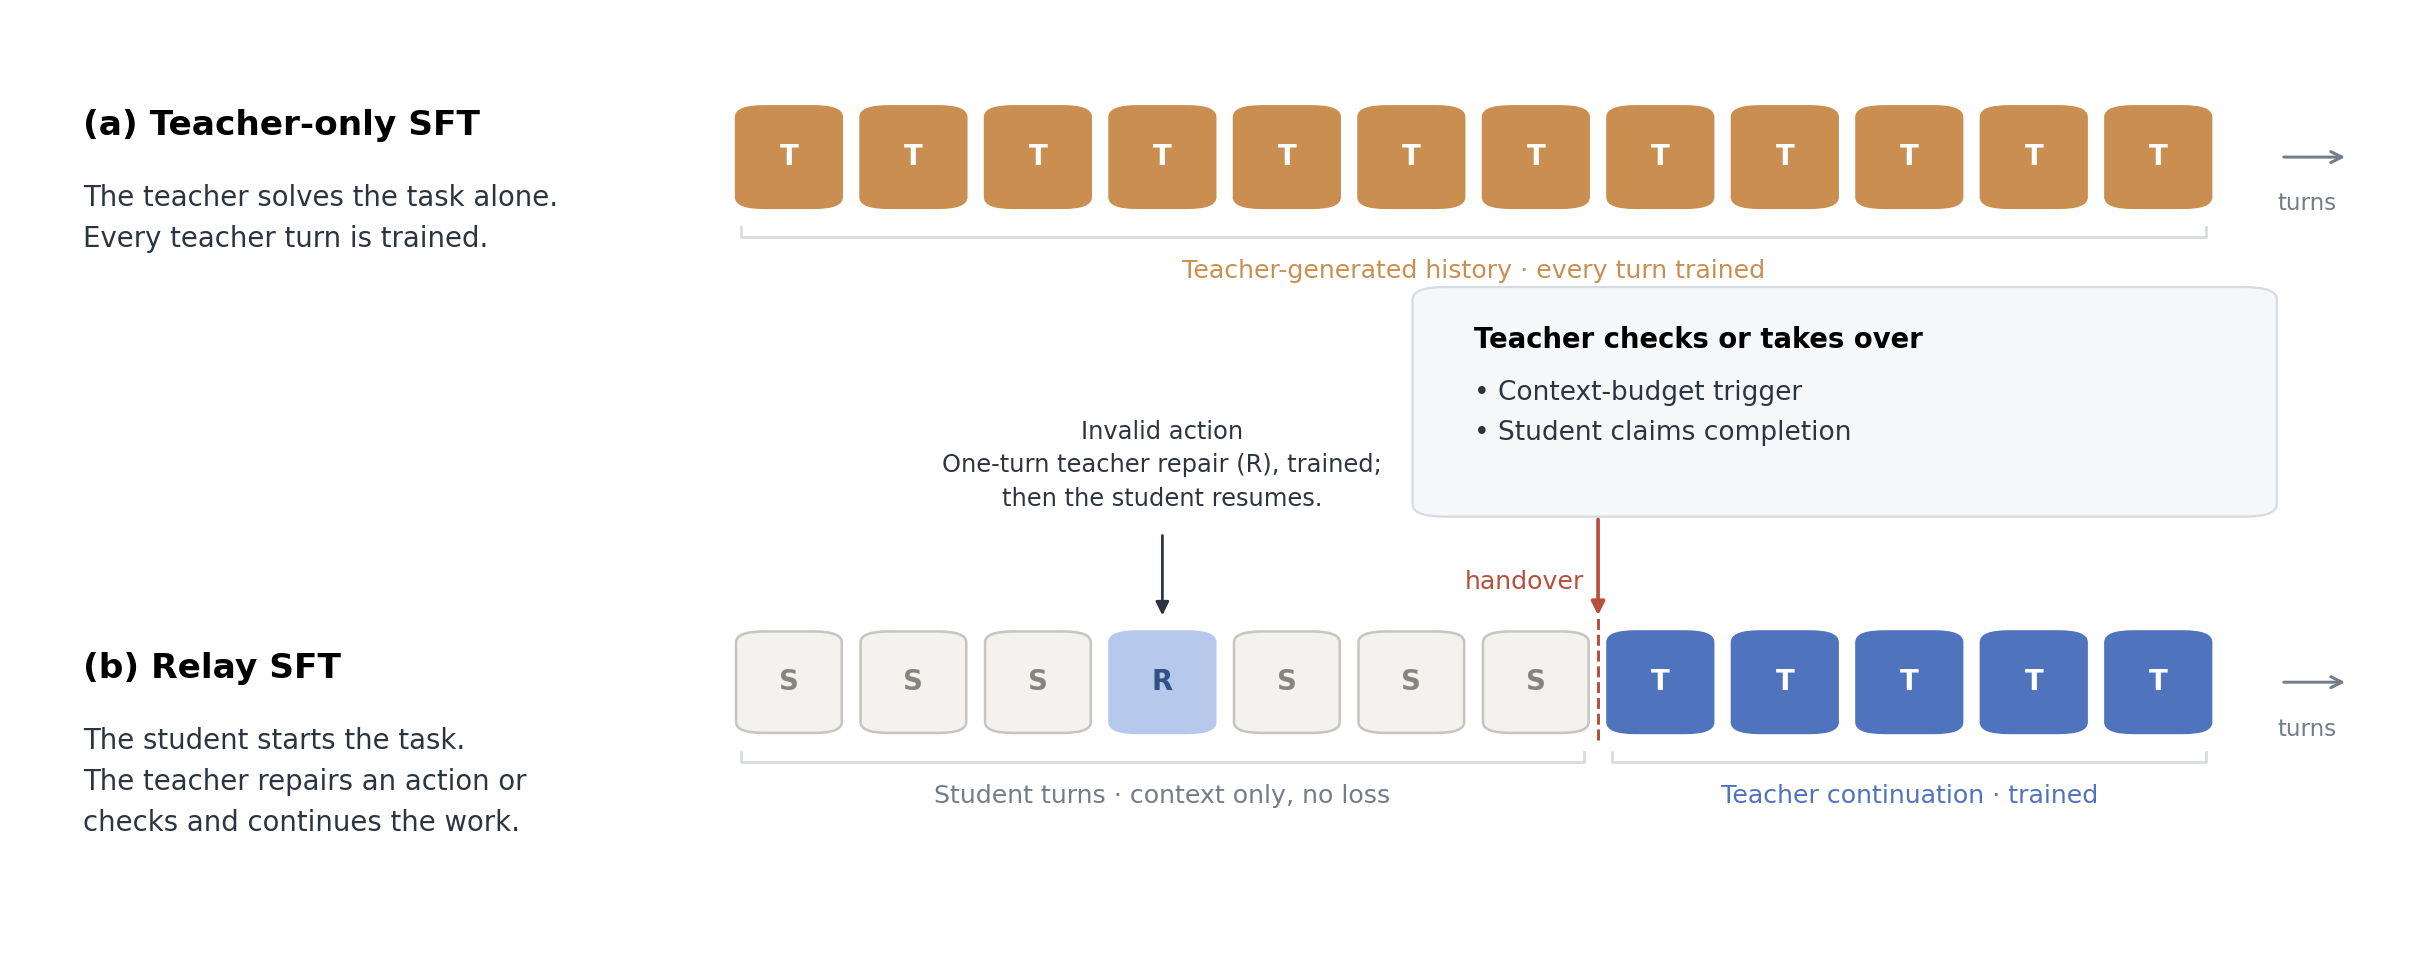
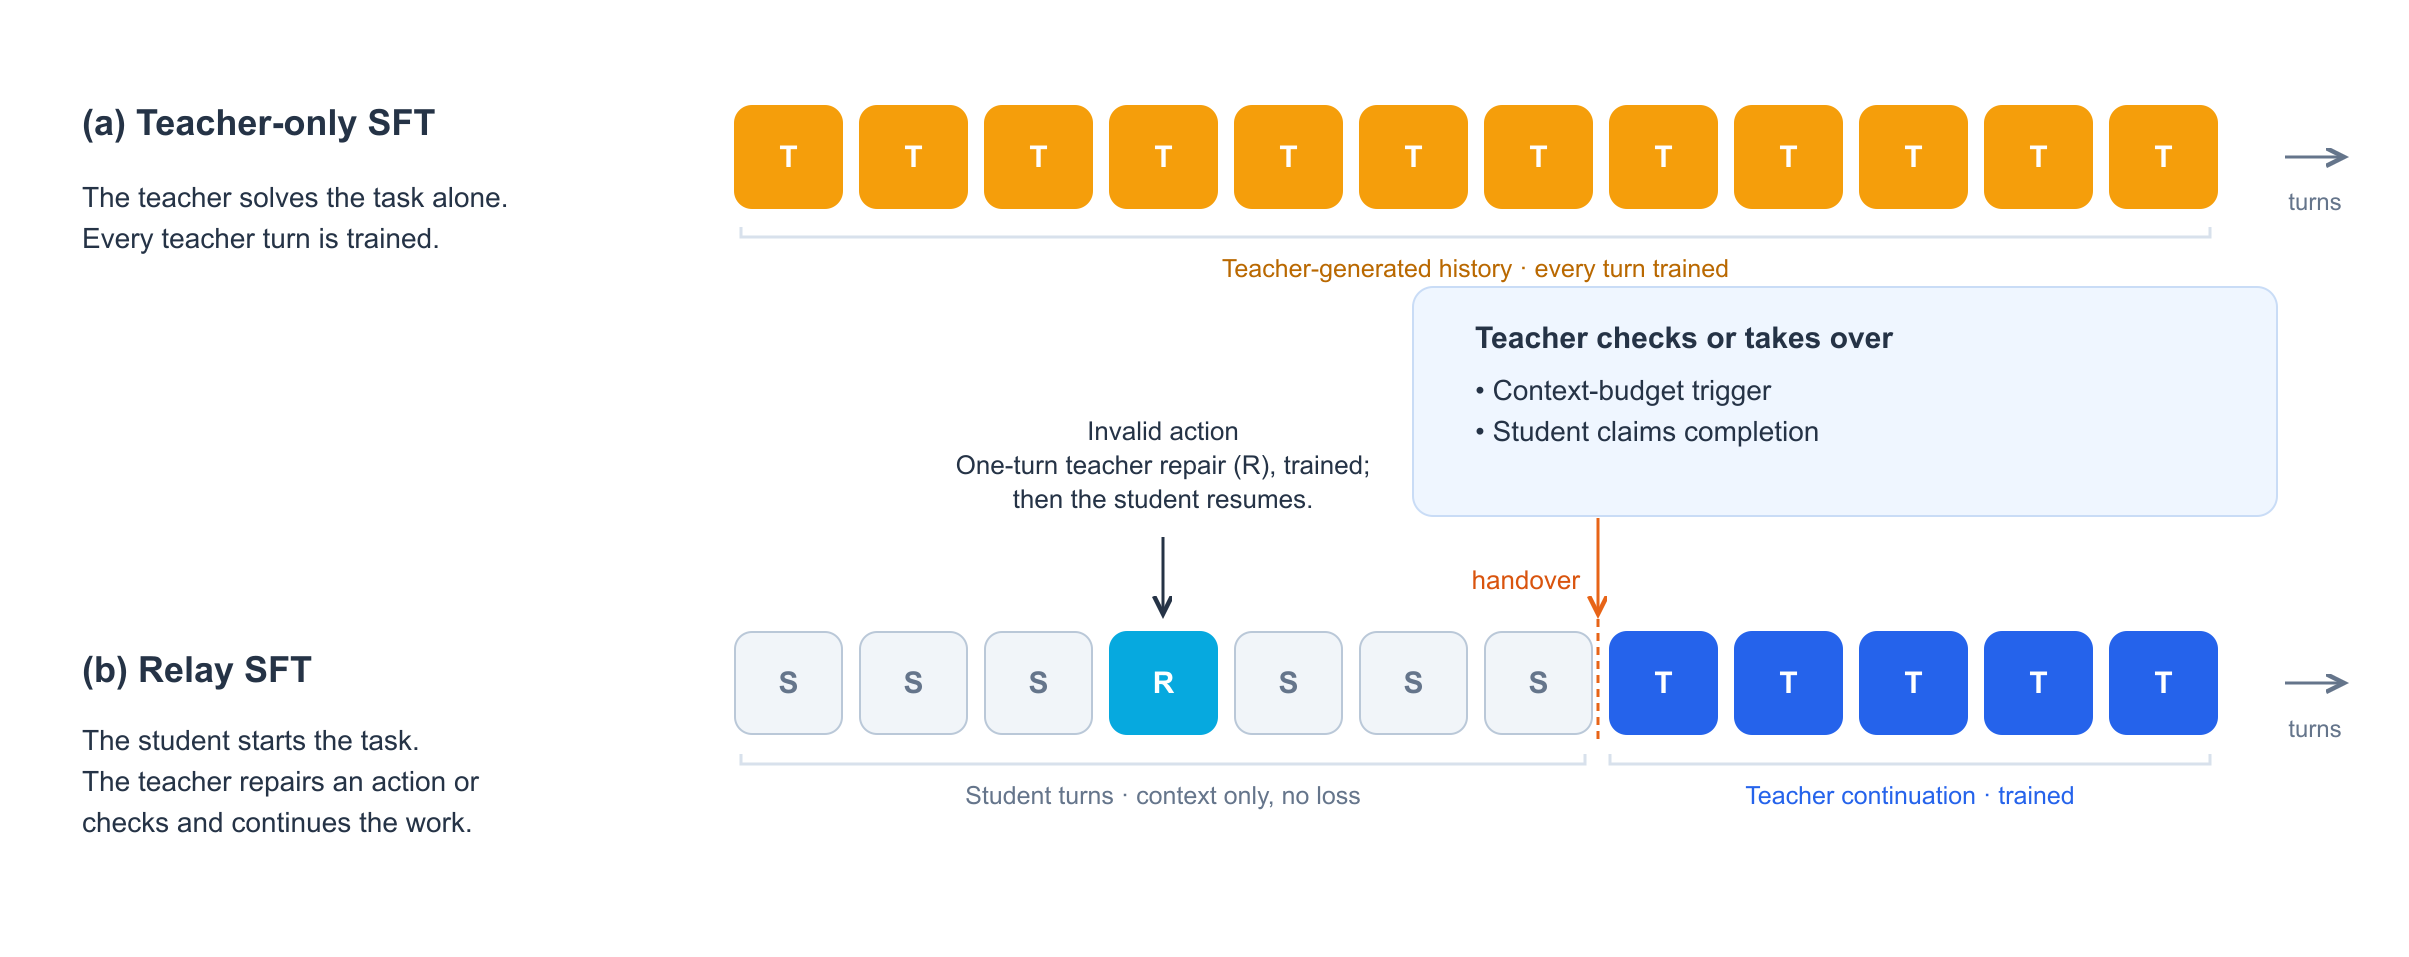
Brighten Relay SFT diagram with vivid amber cyan and blue

diff --git a/scripts/render_relay_timeline.py b/scripts/render_relay_timeline.py
@@ -1,0 +1,61 @@
+"""Render the Relay SFT explanation as an editable SVG and PNG."""
+from html import escape
+from pathlib import Path
+import subprocess
+
+out = Path(__file__).resolve().parents[1] / 'assets/img/snowball'
+parts = ['<svg xmlns="http://www.w3.org/2000/svg" width="2409" height="957" viewBox="0 0 2409 957">',
+         '<rect width="2409" height="957" fill="white"/>',
+         '<defs><marker id="arrow" markerWidth="8" markerHeight="8" refX="6" refY="3" orient="auto"><path d="M0,0 L6,3 L0,6" fill="none" stroke="context-stroke" stroke-width="1.5"/></marker></defs>']
+ink, muted, blue, cyan, orange = '#253346', '#65758b', '#2563eb', '#06a9df', '#f59e0b'
+
+def text(x, y, label, size=28, color=ink, weight=400, anchor='start'):
+    parts.append(f'<text x="{x}" y="{y}" font-family="Arial, sans-serif" font-size="{size}" fill="{color}" font-weight="{weight}" text-anchor="{anchor}">{escape(label)}</text>')
+
+def line(x1, y1, x2, y2, color=muted, arrow=False, dash=False):
+    parts.append(f'<path d="M{x1},{y1} L{x2},{y2}" fill="none" stroke="{color}" stroke-width="3"'+
+                 (' marker-end="url(#arrow)"' if arrow else '')+(' stroke-dasharray="8 6"' if dash else '')+'/>')
+
+def block(x, y, label, fill, color='white', border=None):
+    parts.append(f'<rect x="{x}" y="{y}" width="107" height="102" rx="17" fill="{fill}" stroke="{border or fill}" stroke-width="2"/>')
+    text(x+53.5,y+61,label,30,color,700,'middle')
+
+def bracket(x1,x2,y,label,color):
+    parts.append(f'<path d="M{x1},{y-10} V{y} H{x2} V{y-10}" fill="none" stroke="#d8e1ec" stroke-width="3"/>')
+    text((x1+x2)/2,y+40,label,25,color,anchor='middle')
+
+text(82,135,'(a) Teacher-only SFT',36,weight=700)
+text(82,207,'The teacher solves the task alone.')
+text(82,248,'Every teacher turn is trained.')
+for i in range(12): block(735+i*125,106,'T',orange)
+bracket(741,2210,237,'Teacher-generated history · every turn trained','#b96800')
+line(2285,157,2344,157,arrow=True)
+text(2315,210,'turns',24,muted,anchor='middle')
+
+text(82,682,'(b) Relay SFT',36,weight=700)
+text(82,750,'The student starts the task.')
+text(82,791,'The teacher repairs an action or')
+text(82,832,'checks and continues the work.')
+for i in range(12):
+    label='R' if i==3 else ('S' if i<7 else 'T')
+    fill=cyan if i==3 else ('#f1f5f9' if i<7 else blue)
+    block(735+i*125,632,label,fill,muted if label=='S' else 'white','#bac8d8' if label=='S' else None)
+text(1163,440,'Invalid action',26,anchor='middle')
+text(1163,474,'One-turn teacher repair (R), trained;',26,anchor='middle')
+text(1163,508,'then the student resumes.',26,anchor='middle')
+line(1163,537,1163,614,ink,True)
+parts.append('<rect x="1413" y="287" width="864" height="229" rx="20" fill="#eff6ff" stroke="#c9dcf6" stroke-width="2"/>')
+text(1475,348,'Teacher checks or takes over',30,weight=700)
+text(1475,400,'• Context-budget trigger')
+text(1475,441,'• Student claims completion')
+line(1598,518,1598,614,'#e76417',True)
+line(1598,619,1598,744,'#e76417',dash=True)
+text(1580,589,'handover',26,'#d9540e',anchor='end')
+bracket(741,1585,764,'Student turns · context only, no loss',muted)
+bracket(1610,2210,764,'Teacher continuation · trained',blue)
+line(2285,683,2344,683,arrow=True)
+text(2315,737,'turns',24,muted,anchor='middle')
+parts.append('</svg>')
+svg=out/'relay-timeline.svg'
+svg.write_text('\n'.join(parts)+'\n')
+subprocess.run(['rsvg-convert','-o',str(out/'relay-timeline.png'),str(svg)],check=True)

diff --git a/_posts/2026-10-21-turning-snowball-into-a-coding-agent.md b/_posts/2026-10-21-turning-snowball-into-a-coding-agent.md
@@ -242,7 +242,7 @@ We also explored a different kind of demonstration. A teacher’s own solution m
 In **Relay SFT**, Snowball starts a task and Qwen3.8-27B intervenes after an invalid action, near the context limit, or when Snowball claims completion. The teacher repairs an action, continues the attempt, or checks the work. A completion claim is a reason to check, rather than proof of a mistake. During SFT, student turns provide context and only teacher turns contribute to the loss.
 
 <figure class="research-figure">
-<a href="{{ '/assets/img/snowball/relay-timeline.png' | relative_url }}"><img src="{{ '/assets/img/snowball/relay-timeline.png' | relative_url }}" alt="Teacher-only SFT uses teacher-generated histories. Relay SFT trains teacher actions following the student's attempts." width="2409" height="957" loading="lazy"></a>
+<a href="{{ '/assets/img/snowball/relay-timeline.png?v=crisp-colors' | relative_url }}"><img src="{{ '/assets/img/snowball/relay-timeline.png?v=crisp-colors' | relative_url }}" alt="Teacher-only SFT uses teacher-generated histories. Relay SFT trains teacher actions following the student's attempts." width="2409" height="957" loading="lazy"></a>
 <figcaption>Student turns (S) provide context without training loss. Local repairs (R) and teacher continuations (T) are trained.</figcaption>
 </figure>
 
